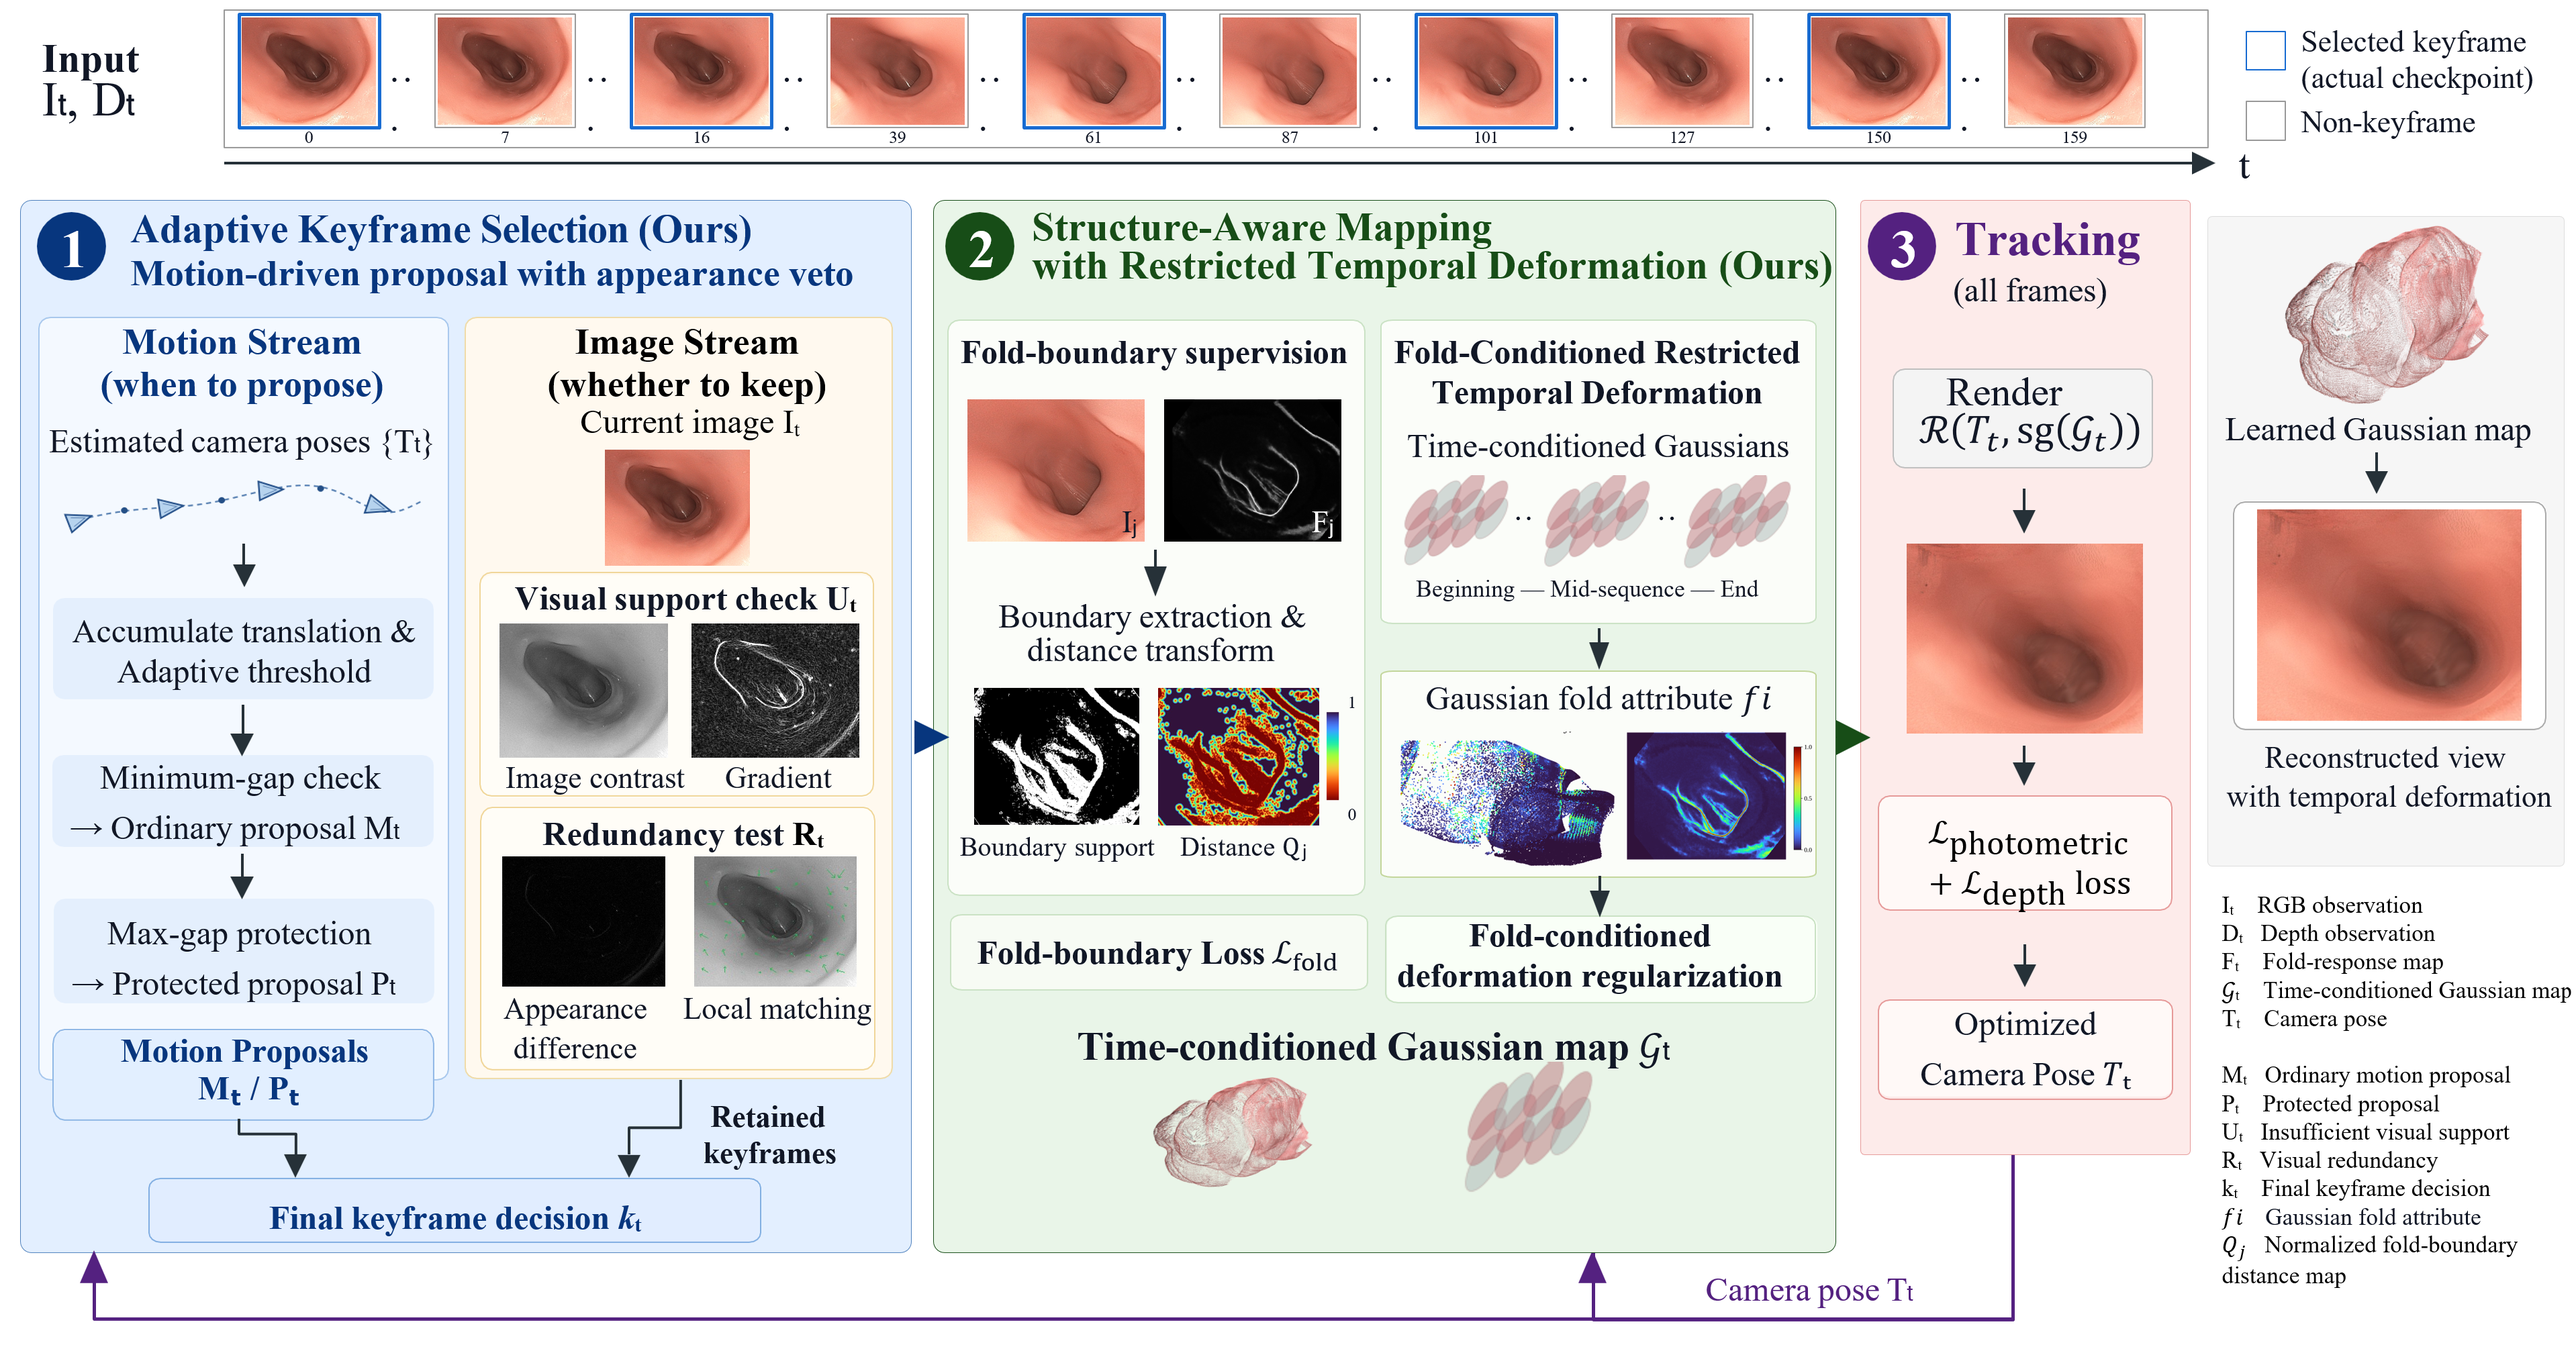
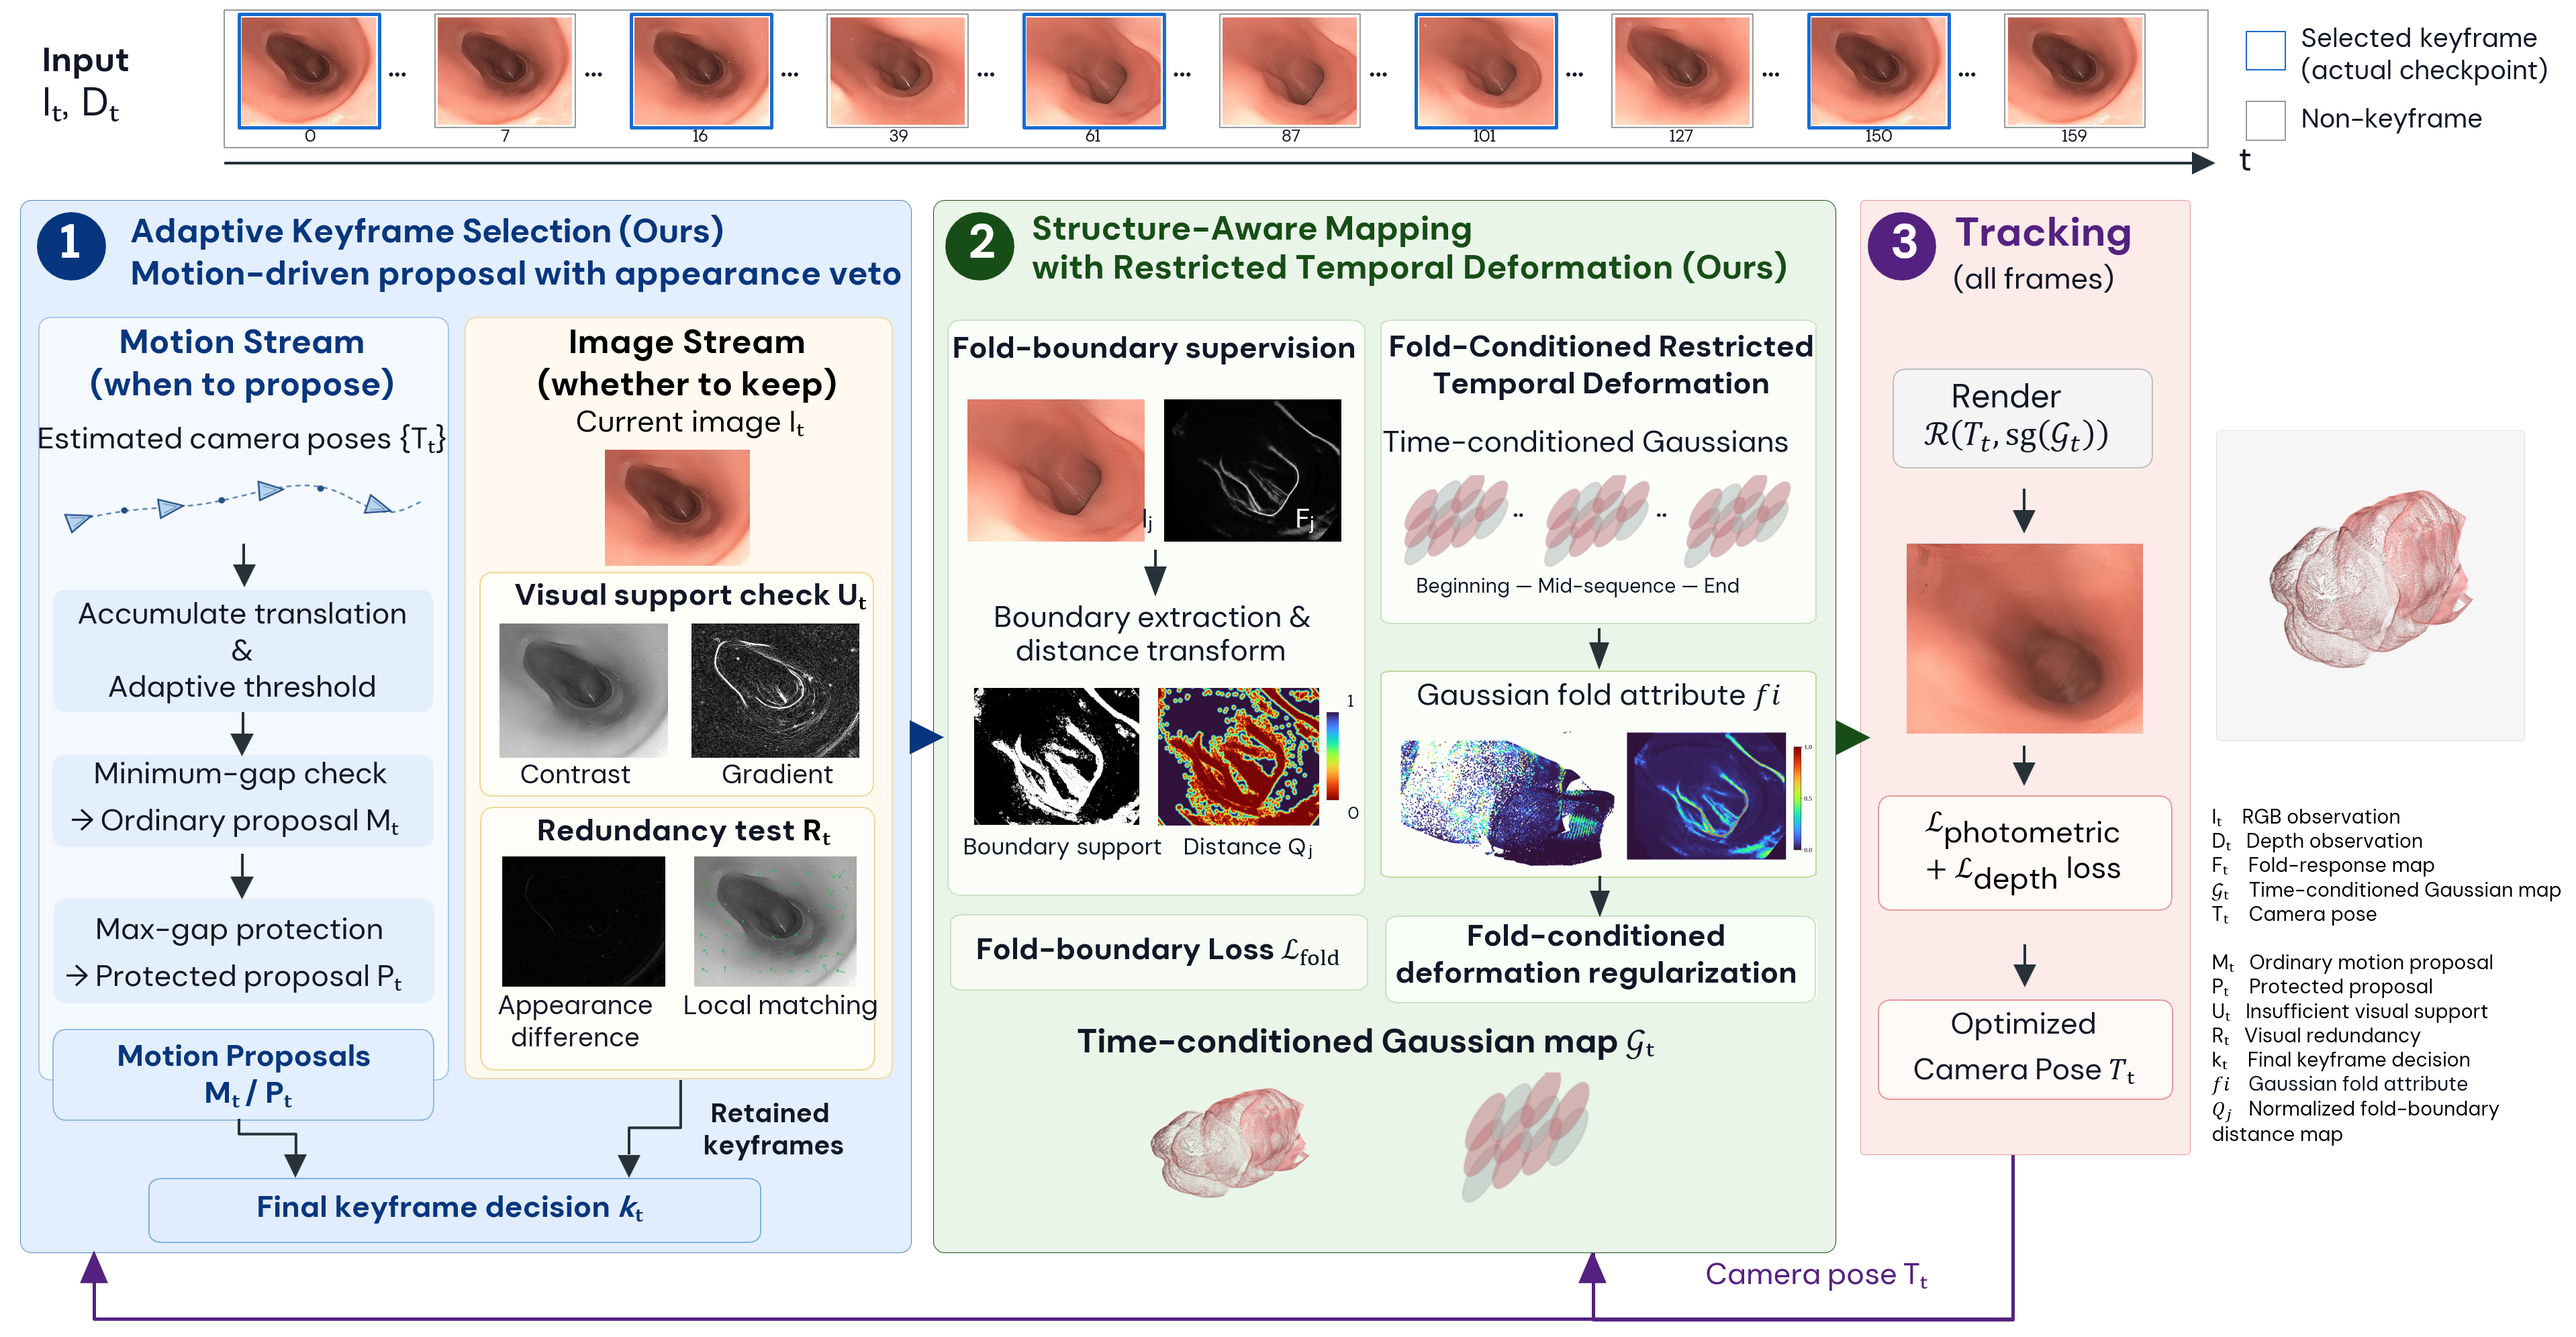
Update method pipeline figure

diff --git a/index.html b/index.html
@@ -3,7 +3,7 @@
 <section id="videos"><h2>Qualitative - Videos</h2><p>Compare synchronized RGB and depth across GaussianSLAM, Endo-2DTAM, MonoGS, EndoGSLAM, SplaTAM, KFS⁴LAM and GT. Below, follow the camera through an accumulating colored surface, compare estimated trajectories with GT, and inspect the current KFS⁴LAM render.</p><div class="controls"><label>Sequence <select id="video-sequence"><option value="c2_sigmoid_t2_v1">C3VD_v2 (c2_sigmoid_t2_v1)</option><option value="trans_t2_c">C3VD (trans_t2_c) · EndoGSLAM backbone</option></select></label></div><figure><video id="splatam-video" controls preload="metadata" playsinline poster="assets/c2_sigmoid_t2_v1__rgbd_surface_preview.png?v=20261002-restored-videos" ><source src="assets/c2_sigmoid_t2_v1__comparison_rgbd_surface.webm?v=20261002-restored-videos" type="video/webm"><source src="assets/c2_sigmoid_t2_v1__comparison_rgbd_surface.mp4?v=20261002-restored-videos" type="video/mp4"></video><figcaption><a id="splatam-download" href="assets/c2_sigmoid_t2_v1__comparison_rgbd_surface.mp4?v=20261002-restored-videos" download>Download MP4</a> · <a id="mesh-download" href="assets/c2_sigmoid_t2_v1__observed_surface.ply?v=20261002-restored-videos" download>Download RGB surface</a> · <a id="video-manifest" href="assets/c2_sigmoid_t2_v1__comparison_rgbd_surface.json?v=20261002-restored-videos">Frame correspondence</a> · <a href="assets/video_metrics.json?v=20261002-restored-videos">Video metrics &amp; protocol</a></figcaption></figure><p class="note">The surface accumulates local patches from rendered RGB-D observations as the camera advances. Estimated trajectories are Sim3-aligned to GT.</p><p class="note">Trajectory legends report mean ATE in millimeters after Sim3 alignment. Video rendering metrics are averaged over the exact displayed frames at 675 × 540, using a shared depth-unit convention.</p><p class="note">Depth uses one shared color range per sequence; white denotes invalid depth. Exact original frames are matched across methods. Playback is 15 fps and does not represent SLAM runtime.</p><p class="note">The trans_t2_c example uses the EndoGSLAM run associated with the trajectory illustration to demonstrate ablation results across different backbones. EndoGSLAM provides an additional backbone for evaluating whether the keyframe-selection and fold-supervision modules are applicable beyond SplaTAM.</p></section>
 <section id="qualitative"><h2>Qualitative - Images</h2><div class="tabs"><button class="active" data-img="render_comparison.png">Render | Main</button><button data-img="ablation_render.svg">Render | Backbone ablation</button><button data-img="mesh_comparison.png">Mesh | Component ablation</button><button data-img="mesh_backbone_ablation.png">Mesh | Backbone ablation</button><button data-img="keyframe_trajectories.png">Keyframes &amp; Trajectories</button></div><figure><a id="fullsize" href="assets/render_comparison.png?v=20261002-restored-videos"><img id="comparison" src="assets/render_comparison.png?v=20261002-restored-videos" alt="Main RGB and depth comparison" loading="lazy"></a><figcaption id="comparison-caption">Main RGB and depth comparisons on trans_t2_b and c1_rectum_t2_v1. Open the image for full resolution.</figcaption></figure></section>
 <section id="results"><h2>Quantitative Results</h2><p>Common evaluation pool: 14 C3VD and 11 C3VD-v2 sequences. Trajectory and rendering protocols remain backbone-specific; depth values retain each source evaluator’s scale.</p><div class="controls"><label>Dataset <select id="dataset"><option value="0">C3VD</option><option value="8">C3VD-v2</option></select></label></div><div class="table-wrap"><table><thead><tr><th>Method</th><th>m ATE ↓</th><th>m ARE ↓</th><th>RPE-t ↓</th><th>RPE-r ↓</th><th>PSNR ↑</th><th>SSIM ↑</th><th>LPIPS ↓</th><th>Depth<br>RMSE ↓</th></tr></thead><tbody id="scores"></tbody></table></div><p class="note">The results are mixed across metrics and datasets; improvements are not uniform. </p></section>
-<section id="method"><h2>Method</h2><p>KFS⁴LAM combines motion-driven keyframe proposals, appearance-based redundancy suppression, fold-boundary supervision and restricted temporal deformation for Gaussian mapping.</p><figure><a href="assets/pipeline.png?v=20261002-restored-videos"><img src="assets/pipeline.png?v=20261002-restored-videos" alt="Pipeline overview"></a><figcaption>Overview of KFS⁴LAM: adaptive keyframe observation selection and structure-aware mapping.</figcaption></figure></section>
+<section id="method"><h2>Method</h2><p>KFS⁴LAM combines motion-driven keyframe proposals, appearance-based redundancy suppression, fold-boundary supervision and restricted temporal deformation for Gaussian mapping.</p><figure><a href="assets/pipeline.png?v=20261004-pipeline-update"><img src="assets/pipeline.png?v=20261004-pipeline-update" alt="Pipeline overview"></a><figcaption>Overview of KFS⁴LAM: adaptive keyframe observation selection and structure-aware mapping.</figcaption></figure></section>
 <section id="reproduce"><h2>Reproduce</h2><p><a href="https://anonymous.4open.science/r/KFS4LAM/">Browse the code and installation instructions</a></p><p>The reconstruction collection comprises 25 KFS⁴LAM sequence archives. Each archive contains Gaussian parameters, estimated poses, intrinsics, keyframe indices and a portable configuration. The archives also contain temporal deformation coefficients. Rendering saved poses does not require retraining or the source dataset.</p><pre>python render_checkpoint.py --backbone splatam \
   --checkpoint params.npz --frames all --stride 8 --output rendered</pre><p>Install the code release dependencies first. RGB-D and fold responses are required for a new SLAM run; the original RGB-D dataset is required for evaluation against ground truth.</p><p><a href="https://github.com/Anonymous4Submission123/KFS4LAM_Submission/releases/tag/reconstructions-v1">Checkpoints / Reconstruction Downloads</a> · 25 sequence archives, per-sequence metadata and metrics.</p></section>
 <section id="references"><h2>References</h2><ul><li><a href="https://durrlab.github.io/C3VD/">C3VD</a> — Bobrow et al., Medical Image Analysis, 2023.</li><li><a href="https://durrlab.github.io/C3VDv2/">C3VD-v2</a> — Golhar et al., Scientific Data, 2026.</li><li><a href="https://arxiv.org/abs/2312.02126">SplaTAM</a>, CVPR 2024 · <a href="https://github.com/spla-tam/SplaTAM">Code</a>.</li><li><a href="https://arxiv.org/abs/2403.15124">EndoGSLAM</a>, MICCAI 2024 · <a href="https://github.com/Loping151/EndoGSLAM">Code</a>.</li></ul></section>
